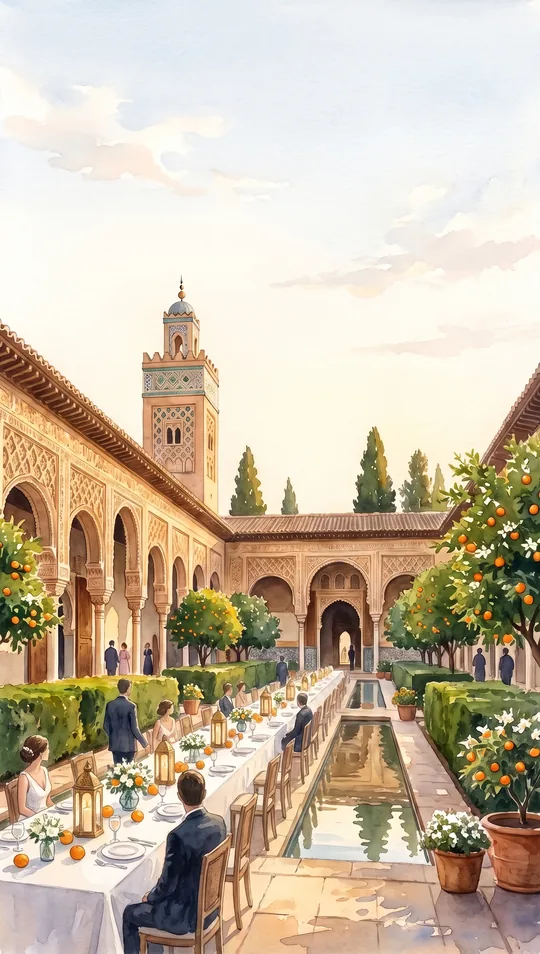
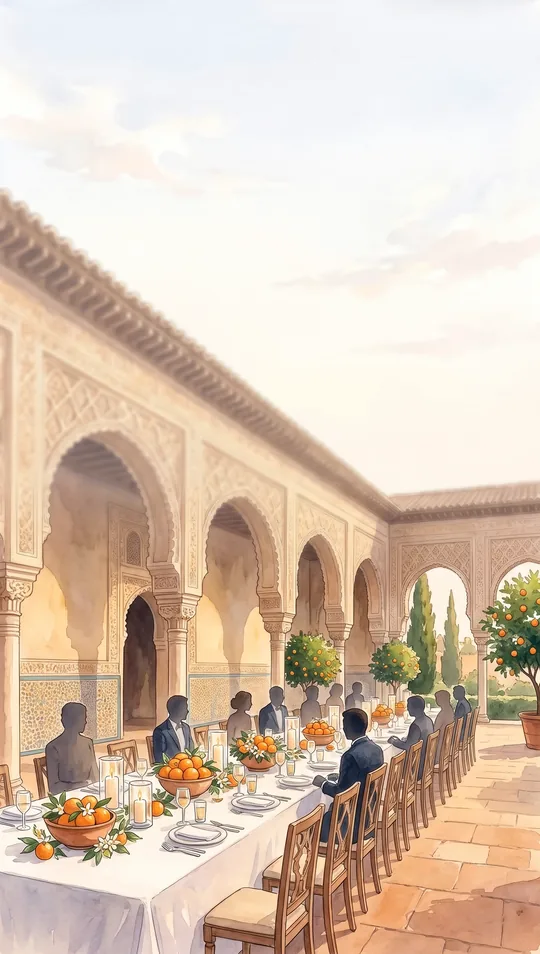
Andalou : salle, dîner et fête repeints en illustrations simples (plus de tables sur l'eau) ; lieu « Henné à la maison » pour les deux thèmes
Claude-Session: https://claude.ai/code/session_01R5nF4Xbit5ZovA9fQpJaCu

diff --git a/business/site/api/_meta.js b/business/site/api/_meta.js
@@ -1,2 +1,2 @@
 // Généré par business/build-site.py : ce que les faire-part commandés en ligne reprennent de chaque thème. Ne pas modifier à la main.
-export default {"site": "https://savetheoui.fr", "themes": {"conte": {"compose": false, "light": false, "keys": ["1", "2", "3", "4", "eglise", "fond", "jardin", "mairie", "plage", "salle"], "calques": [], "anim": [1, 3, 4], "trans": []}, "artdeco": {"compose": false, "light": false, "keys": ["1", "2", "3", "4", "eglise", "fond", "jardin", "mairie", "plage", "salle"], "calques": [], "anim": [3, 4], "trans": []}, "aquarelle": {"compose": false, "light": true, "keys": ["1", "2", "3", "4", "eglise", "fond", "jardin", "mairie", "plage", "salle"], "calques": [], "anim": [2, 3, 4], "trans": []}, "bollywood": {"compose": false, "light": false, "keys": ["1", "2", "3", "4", "ciel", "eglise", "fond", "jardin", "mairie", "plage", "salle"], "calques": ["1", "2", "4", "eglise", "jardin", "mairie", "plage", "salle"], "anim": [1, 2], "trans": []}, "minimal": {"compose": false, "light": true, "keys": ["1", "2", "3", "4", "eglise", "fond", "jardin", "mairie", "plage", "salle"], "calques": [], "anim": [], "trans": []}, "boheme": {"compose": false, "light": true, "keys": ["1", "2", "3", "4", "eglise", "fond", "jardin", "mairie", "plage", "salle"], "calques": [], "anim": [4], "trans": []}, "americaine": {"compose": false, "light": false, "keys": ["1", "2", "3", "4", "eglise", "fond", "jardin", "mairie", "plage", "salle"], "calques": [], "anim": [1, 3, 4], "trans": []}, "pop": {"compose": false, "light": true, "keys": ["1", "2", "3", "4", "eglise", "fond", "jardin", "mairie", "plage", "salle"], "calques": [], "anim": [1, 4], "trans": []}, "ceramique": {"compose": false, "light": true, "keys": ["1", "2", "3", "4", "eglise", "fond", "jardin", "mairie", "plage", "salle"], "calques": [], "anim": [3], "trans": []}, "nuits": {"compose": true, "light": false, "keys": ["1", "2", "3", "4", "ciel", "cocktail", "dress", "eglise", "fete", "fond", "info", "jardin", "mains", "mairie", "mosquee", "plage", "prog", "salle", "sortie", "verres"], "calques": [], "anim": [4], "trans": []}, "gravure": {"compose": false, "light": true, "keys": ["1", "2", "3", "4", "eglise", "fond", "jardin", "mairie", "plage", "salle"], "calques": [], "anim": [], "trans": []}, "dolcevita": {"compose": true, "light": false, "keys": ["1", "2", "3", "4", "ciel", "cocktail", "dress", "eglise", "fete", "fond", "info", "jardin", "mains", "mairie", "plage", "prog", "salle", "sortie", "verres"], "calques": [], "anim": [2], "trans": []}, "chinois": {"compose": false, "light": false, "keys": ["1", "2", "3", "4", "eglise", "fond", "jardin", "mairie", "plage", "salle"], "calques": [], "anim": [], "trans": []}, "japonais": {"compose": false, "light": true, "keys": ["1", "2", "3", "4", "ciel", "eglise", "fond", "jardin", "mairie", "plage", "salle"], "calques": ["1", "3", "4", "eglise", "jardin", "mairie", "plage", "salle"], "anim": [], "trans": []}, "gzhel": {"compose": false, "light": true, "keys": ["1", "2", "3", "4", "eglise", "fond", "jardin", "mairie", "plage", "salle"], "calques": [], "anim": [], "trans": []}, "asianchic": {"compose": false, "light": false, "keys": ["1", "2", "3", "4", "eglise", "fond", "jardin", "mairie", "plage", "salle"], "calques": [], "anim": [], "trans": []}, "y2k": {"compose": false, "light": true, "keys": ["1", "2", "3", "4", "eglise", "fond", "jardin", "mairie", "plage", "salle"], "calques": [], "anim": [], "trans": []}, "oldmoney": {"compose": true, "light": true, "keys": ["1", "2", "3", "4", "ciel", "cocktail", "eglise", "fete", "fond", "info", "jardin", "liste", "mains", "mairie", "plage", "salle", "sortie", "verres"], "calques": [], "anim": [], "trans": []}, "afro": {"compose": false, "light": false, "keys": ["1", "2", "3", "4", "eglise", "fond", "jardin", "mairie", "plage", "salle"], "calques": [], "anim": [], "trans": []}, "alhambra": {"compose": true, "light": true, "keys": ["1", "2", "3", "4", "cocktail", "dress", "eglise", "fete", "fond", "info", "jardin", "mains", "mairie", "mosquee", "plage", "prog", "salle", "sortie", "verres"], "calques": [], "anim": [], "trans": []}, "desert": {"compose": false, "light": false, "keys": ["1", "2", "3", "4", "fond", "jardin", "mairie", "mosquee", "plage", "salle"], "calques": [], "anim": [], "trans": []}, "emeraude": {"compose": false, "light": false, "keys": ["1", "2", "3", "4", "fond", "jardin", "mairie", "mosquee", "plage", "salle"], "calques": [], "anim": [], "trans": []}, "doucefrance": {"compose": true, "light": true, "keys": ["1", "2", "3", "4", "cocktail", "dress", "eglise", "fete", "fond", "info", "jardin", "liste", "mains", "mairie", "plage", "prog", "salle", "sortie", "verres"], "calques": [], "anim": [], "trans": []}, "dolcevitajour": {"compose": false, "light": true, "keys": ["1", "2", "3", "4", "dress", "eglise", "fond", "info", "jardin", "mains", "prog", "salle"], "calques": [], "anim": [], "trans": []}}};
+export default {"site": "https://savetheoui.fr", "themes": {"conte": {"compose": false, "light": false, "keys": ["1", "2", "3", "4", "eglise", "fond", "jardin", "mairie", "plage", "salle"], "calques": [], "anim": [1, 3, 4], "trans": []}, "artdeco": {"compose": false, "light": false, "keys": ["1", "2", "3", "4", "eglise", "fond", "jardin", "mairie", "plage", "salle"], "calques": [], "anim": [3, 4], "trans": []}, "aquarelle": {"compose": false, "light": true, "keys": ["1", "2", "3", "4", "eglise", "fond", "jardin", "mairie", "plage", "salle"], "calques": [], "anim": [2, 3, 4], "trans": []}, "bollywood": {"compose": false, "light": false, "keys": ["1", "2", "3", "4", "ciel", "eglise", "fond", "jardin", "mairie", "plage", "salle"], "calques": ["1", "2", "4", "eglise", "jardin", "mairie", "plage", "salle"], "anim": [1, 2], "trans": []}, "minimal": {"compose": false, "light": true, "keys": ["1", "2", "3", "4", "eglise", "fond", "jardin", "mairie", "plage", "salle"], "calques": [], "anim": [], "trans": []}, "boheme": {"compose": false, "light": true, "keys": ["1", "2", "3", "4", "eglise", "fond", "jardin", "mairie", "plage", "salle"], "calques": [], "anim": [4], "trans": []}, "americaine": {"compose": false, "light": false, "keys": ["1", "2", "3", "4", "eglise", "fond", "jardin", "mairie", "plage", "salle"], "calques": [], "anim": [1, 3, 4], "trans": []}, "pop": {"compose": false, "light": true, "keys": ["1", "2", "3", "4", "eglise", "fond", "jardin", "mairie", "plage", "salle"], "calques": [], "anim": [1, 4], "trans": []}, "ceramique": {"compose": false, "light": true, "keys": ["1", "2", "3", "4", "eglise", "fond", "jardin", "mairie", "plage", "salle"], "calques": [], "anim": [3], "trans": []}, "nuits": {"compose": true, "light": false, "keys": ["1", "2", "3", "4", "ciel", "cocktail", "dress", "eglise", "fete", "fond", "info", "jardin", "mains", "mairie", "maison", "mosquee", "plage", "prog", "salle", "sortie", "verres"], "calques": [], "anim": [4], "trans": []}, "gravure": {"compose": false, "light": true, "keys": ["1", "2", "3", "4", "eglise", "fond", "jardin", "mairie", "plage", "salle"], "calques": [], "anim": [], "trans": []}, "dolcevita": {"compose": true, "light": false, "keys": ["1", "2", "3", "4", "ciel", "cocktail", "dress", "eglise", "fete", "fond", "info", "jardin", "mains", "mairie", "plage", "prog", "salle", "sortie", "verres"], "calques": [], "anim": [2], "trans": []}, "chinois": {"compose": false, "light": false, "keys": ["1", "2", "3", "4", "eglise", "fond", "jardin", "mairie", "plage", "salle"], "calques": [], "anim": [], "trans": []}, "japonais": {"compose": false, "light": true, "keys": ["1", "2", "3", "4", "ciel", "eglise", "fond", "jardin", "mairie", "plage", "salle"], "calques": ["1", "3", "4", "eglise", "jardin", "mairie", "plage", "salle"], "anim": [], "trans": []}, "gzhel": {"compose": false, "light": true, "keys": ["1", "2", "3", "4", "eglise", "fond", "jardin", "mairie", "plage", "salle"], "calques": [], "anim": [], "trans": []}, "asianchic": {"compose": false, "light": false, "keys": ["1", "2", "3", "4", "eglise", "fond", "jardin", "mairie", "plage", "salle"], "calques": [], "anim": [], "trans": []}, "y2k": {"compose": false, "light": true, "keys": ["1", "2", "3", "4", "eglise", "fond", "jardin", "mairie", "plage", "salle"], "calques": [], "anim": [], "trans": []}, "oldmoney": {"compose": true, "light": true, "keys": ["1", "2", "3", "4", "ciel", "cocktail", "eglise", "fete", "fond", "info", "jardin", "liste", "mains", "mairie", "plage", "salle", "sortie", "verres"], "calques": [], "anim": [], "trans": []}, "afro": {"compose": false, "light": false, "keys": ["1", "2", "3", "4", "eglise", "fond", "jardin", "mairie", "plage", "salle"], "calques": [], "anim": [], "trans": []}, "alhambra": {"compose": true, "light": true, "keys": ["1", "2", "3", "4", "cocktail", "dress", "eglise", "fete", "fond", "info", "jardin", "mains", "mairie", "maison", "mosquee", "plage", "prog", "salle", "sortie", "verres"], "calques": [], "anim": [], "trans": []}, "desert": {"compose": false, "light": false, "keys": ["1", "2", "3", "4", "fond", "jardin", "mairie", "mosquee", "plage", "salle"], "calques": [], "anim": [], "trans": []}, "emeraude": {"compose": false, "light": false, "keys": ["1", "2", "3", "4", "fond", "jardin", "mairie", "mosquee", "plage", "salle"], "calques": [], "anim": [], "trans": []}, "doucefrance": {"compose": true, "light": true, "keys": ["1", "2", "3", "4", "cocktail", "dress", "eglise", "fete", "fond", "info", "jardin", "liste", "mains", "mairie", "plage", "prog", "salle", "sortie", "verres"], "calques": [], "anim": [], "trans": []}, "dolcevitajour": {"compose": false, "light": true, "keys": ["1", "2", "3", "4", "dress", "eglise", "fond", "info", "jardin", "mains", "prog", "salle"], "calques": [], "anim": [], "trans": []}}};

diff --git a/business/landing/themes.js b/business/landing/themes.js
@@ -177,14 +177,15 @@ window.sceauDoorFit=function(root,box,wall,l,r){
 window.SCEAU_THEMES.nuits.compose=true; window.SCEAU_THEMES.alhambra.compose=true;
 // leurs lieux peints (img/lieux) : tous proposés, le thème n'impose pas la mosquée ; l'Andalou n'a pas d'église (-> mairie)
 /* pas d'église dans ces deux thèmes (« y'a pas d'église, y'a mairie et salle, ou henné à la maison », 10 octobre 2026) :
-   un moment prévu à l'église passe à la mairie ; les images d'église peintes ce jour-là restent dans img/ sans être proposées */
-['nuits','alhambra'].forEach(k=>{ const t=window.SCEAU_THEMES[k]; t.lieux=['mairie','salle','mosquee','jardin','plage']; t.lieuAlt={eglise:'mairie'}; });
+   un moment prévu à l'église passe à la mairie ; les images d'église peintes ce jour-là restent dans img/ sans être proposées.
+   « Henné à la maison » (maison) : un gros plan symbolique, le plateau de henné sur la table basse du salon */
+['nuits','alhambra'].forEach(k=>{ const t=window.SCEAU_THEMES[k]; t.lieux=['mairie','salle','maison','mosquee','jardin','plage']; t.lieuAlt={eglise:'mairie'}; });
 /* repeints le 10 octobre 2026 selon les règles de Dolce Vita (tools/nuits-andalou.py, 38 images accordées) : des peintures
    entières composées pour le plein écran (cover), sans calques ; l'accueil s'ouvre sur les mains, la réponse sur les verres
    (thé à la menthe, citronnade à la fleur d'oranger), chaque écran d'infos a sa scène, et la fête, le cocktail, la sortie
    sont des décors de plus. L'Andalou est de jour (texte foncé), sauf sa fête du soir. */
 ['nuits','alhambra'].forEach(k=>{ const t=window.SCEAU_THEMES[k]; t.nocal=true; t.home='mains'; t.extra=['fete','cocktail','sortie'];
-  t.cover=['1','2','3','4','mains','verres','fond','mairie','eglise','mosquee','salle','jardin','plage','fete','cocktail','sortie','prog','dress','info'];
+  t.cover=['1','2','3','4','mains','verres','fond','mairie','eglise','mosquee','maison','salle','jardin','plage','fete','cocktail','sortie','prog','dress','info'];
   t.pageImg={program:'prog',dress:'dress',stay:'info',infos:'info',rsvp:'verres'}; });
 window.SCEAU_THEMES.alhambra.darkLieux=['fete'];
 window.SCEAU_BASMALA='﷽';

diff --git a/business/site/themes.js b/business/site/themes.js
@@ -177,14 +177,15 @@ window.sceauDoorFit=function(root,box,wall,l,r){
 window.SCEAU_THEMES.nuits.compose=true; window.SCEAU_THEMES.alhambra.compose=true;
 // leurs lieux peints (img/lieux) : tous proposés, le thème n'impose pas la mosquée ; l'Andalou n'a pas d'église (-> mairie)
 /* pas d'église dans ces deux thèmes (« y'a pas d'église, y'a mairie et salle, ou henné à la maison », 10 octobre 2026) :
-   un moment prévu à l'église passe à la mairie ; les images d'église peintes ce jour-là restent dans img/ sans être proposées */
-['nuits','alhambra'].forEach(k=>{ const t=window.SCEAU_THEMES[k]; t.lieux=['mairie','salle','mosquee','jardin','plage']; t.lieuAlt={eglise:'mairie'}; });
+   un moment prévu à l'église passe à la mairie ; les images d'église peintes ce jour-là restent dans img/ sans être proposées.
+   « Henné à la maison » (maison) : un gros plan symbolique, le plateau de henné sur la table basse du salon */
+['nuits','alhambra'].forEach(k=>{ const t=window.SCEAU_THEMES[k]; t.lieux=['mairie','salle','maison','mosquee','jardin','plage']; t.lieuAlt={eglise:'mairie'}; });
 /* repeints le 10 octobre 2026 selon les règles de Dolce Vita (tools/nuits-andalou.py, 38 images accordées) : des peintures
    entières composées pour le plein écran (cover), sans calques ; l'accueil s'ouvre sur les mains, la réponse sur les verres
    (thé à la menthe, citronnade à la fleur d'oranger), chaque écran d'infos a sa scène, et la fête, le cocktail, la sortie
    sont des décors de plus. L'Andalou est de jour (texte foncé), sauf sa fête du soir. */
 ['nuits','alhambra'].forEach(k=>{ const t=window.SCEAU_THEMES[k]; t.nocal=true; t.home='mains'; t.extra=['fete','cocktail','sortie'];
-  t.cover=['1','2','3','4','mains','verres','fond','mairie','eglise','mosquee','salle','jardin','plage','fete','cocktail','sortie','prog','dress','info'];
+  t.cover=['1','2','3','4','mains','verres','fond','mairie','eglise','mosquee','maison','salle','jardin','plage','fete','cocktail','sortie','prog','dress','info'];
   t.pageImg={program:'prog',dress:'dress',stay:'info',infos:'info',rsvp:'verres'}; });
 window.SCEAU_THEMES.alhambra.darkLieux=['fete'];
 window.SCEAU_BASMALA='﷽';

diff --git a/business/landing/vitrine.js b/business/landing/vitrine.js
@@ -236,7 +236,7 @@
   // prix de la page unique : 59 €, + 10 € avec l'ouverture, + 20 € avec le bouton Répondre et le tableau de bord
   const pagePrice=()=>59+(C.op!=='none'?10:0)+(C.reply?20:0);
   // les lieux déjà dessinés dans chaque thème (/img/lieux/<thème>-<lieu>.webp) ; « fond » = le décor des écrans simples
-  const LIEUX=[{id:'s2',name:'Le henné',occ:'henne'},{id:'mairie',name:'Mairie'},{id:'eglise',name:'Église'},{id:'mosquee',name:'Mosquée',fam:'nuits'},{id:'salle',name:'Salle'},{id:'jardin',name:'Jardin'},{id:'plage',name:'Plage'},{id:'fete',name:'Soirée',x:1},{id:'cocktail',name:'Cocktail',x:1},{id:'sortie',name:'Sortie de cérémonie',x:1},{id:'photo',name:'Votre lieu',sig:true}];
+  const LIEUX=[{id:'s2',name:'Le henné',occ:'henne'},{id:'mairie',name:'Mairie'},{id:'eglise',name:'Église'},{id:'mosquee',name:'Mosquée',fam:'nuits'},{id:'maison',name:'Henné à la maison',fam:'nuits'},{id:'salle',name:'Salle'},{id:'jardin',name:'Jardin'},{id:'plage',name:'Plage'},{id:'fete',name:'Soirée',x:1},{id:'cocktail',name:'Cocktail',x:1},{id:'sortie',name:'Sortie de cérémonie',x:1},{id:'photo',name:'Votre lieu',sig:true}];
   /* upsell sans frustration : les options de Signature (lieu peint d'après photo, 3e événement et plus, lien par famille,
      anglais) sont proposées au même endroit que les autres, avec l'étiquette « Signature ». On peut les choisir en Essentiel :
      la formule se met d'elle-même sur Signature et le récapitulatif explique pourquoi ; si l'on revient à Essentiel, il dit

diff --git a/business/site/vitrine.js b/business/site/vitrine.js
@@ -236,7 +236,7 @@
   // prix de la page unique : 59 €, + 10 € avec l'ouverture, + 20 € avec le bouton Répondre et le tableau de bord
   const pagePrice=()=>59+(C.op!=='none'?10:0)+(C.reply?20:0);
   // les lieux déjà dessinés dans chaque thème (/img/lieux/<thème>-<lieu>.webp) ; « fond » = le décor des écrans simples
-  const LIEUX=[{id:'s2',name:'Le henné',occ:'henne'},{id:'mairie',name:'Mairie'},{id:'eglise',name:'Église'},{id:'mosquee',name:'Mosquée',fam:'nuits'},{id:'salle',name:'Salle'},{id:'jardin',name:'Jardin'},{id:'plage',name:'Plage'},{id:'fete',name:'Soirée',x:1},{id:'cocktail',name:'Cocktail',x:1},{id:'sortie',name:'Sortie de cérémonie',x:1},{id:'photo',name:'Votre lieu',sig:true}];
+  const LIEUX=[{id:'s2',name:'Le henné',occ:'henne'},{id:'mairie',name:'Mairie'},{id:'eglise',name:'Église'},{id:'mosquee',name:'Mosquée',fam:'nuits'},{id:'maison',name:'Henné à la maison',fam:'nuits'},{id:'salle',name:'Salle'},{id:'jardin',name:'Jardin'},{id:'plage',name:'Plage'},{id:'fete',name:'Soirée',x:1},{id:'cocktail',name:'Cocktail',x:1},{id:'sortie',name:'Sortie de cérémonie',x:1},{id:'photo',name:'Votre lieu',sig:true}];
   /* upsell sans frustration : les options de Signature (lieu peint d'après photo, 3e événement et plus, lien par famille,
      anglais) sont proposées au même endroit que les autres, avec l'étiquette « Signature ». On peut les choisir en Essentiel :
      la formule se met d'elle-même sur Signature et le récapitulatif explique pourquoi ; si l'on revient à Essentiel, il dit

diff --git a/business/tools/nuits-andalou.py b/business/tools/nuits-andalou.py
@@ -131,6 +131,31 @@ J = {
     'alhambra-info': (A1, DAY, VIGNETTE + " The way to the wedding: a cypress-lined path climbing to the palace gate, a vintage "
         "car waiting at the foot of the hill. No people"),
 }
+# 10 octobre 2026, 5 images de plus accordées (~0,75 €) : « où tu vois un domaine qui ressemble à ça, les tables sont sur
+# l'eau » ; « les images ne doivent pas forcément représenter les lieux en vrai, ça peut être symbolique, illustratif, simple ».
+# Les anciennes salle, dîner et fête de l'Andalou sont remplacées, et un lieu « Henné à la maison » s'ajoute aux deux thèmes.
+SYMBOL = ("It is an illustration for a wedding invitation: SYMBOLIC, simple and elegant, not a literal venue. Everything is "
+          "physically plausible: tables and chairs stand on a solid floor, never next to or over water.")
+N2 = ('nuits', 'nuits-1@new', 'nuits-2@new', 'nuits-mains@new')
+A2 = ('alhambra', 'alhambra-1@new', 'alhambra-cocktail@new', 'alhambra-mains@new')
+J.update({
+    'alhambra-salle': (A2, DAY, SYMBOL + " The wedding reception: one round table beautifully set with white linen, gold-rimmed "
+        "plates, crystal glasses, small lanterns with candles and sprigs of orange blossom, on terracotta tiles under a carved "
+        "Andalusian arch, orange trees in pots on each side, the arcades softly behind. No people. No pool, no water"),
+    'alhambra-3': (A2, DAY, SYMBOL + " " + PEOPLE + " The wedding dinner in the golden afternoon light: a long table on a "
+        "terracotta terrace, set with white linen, candles and bowls of oranges, under carved arches, guests seen from behind "
+        "taking their seats. No pool, no water anywhere near the table"),
+    'alhambra-fete': (A2, NIGHT, SYMBOL + " " + PEOPLE + " The evening party: strings of warm lanterns across a palace "
+        "courtyard at night, a few couples dancing seen from behind as warm silhouettes on the tiled floor, orange trees in "
+        "pots. No tables, no pool, no water"),
+    'nuits-maison': (N2, FOCUS_N, SYMBOL + " The henna night at home, a close-up still life: a low carved wooden table on a "
+        "rug with a brass tray of henna cones, a small bowl of henna paste, rose petals and candles, embroidered cushions "
+        "around, in the warm lantern light of a family living room at night, in the lower part of the image. No people"),
+    'alhambra-maison': (A2, FOCUS_D, SYMBOL + " The henna night at home, a close-up still life: a low carved wooden table on "
+        "a rug with a brass tray of henna cones, a small bowl of henna paste, rose petals and orange blossoms, embroidered "
+        "cushions around, in the soft daylight of a family living room with a carved window, in the lower part of the image. "
+        "No people"),
+})
 ANCHORS = ['nuits-1', 'alhambra-1']
 NIGHTZ = (NIGHT, FOCUS_N)
 SRC = '/tmp/claude-0/nuits-andalou'

diff --git a/business/tools/retouche-nuits-andalou.py b/business/tools/retouche-nuits-andalou.py
@@ -57,7 +57,8 @@ def erase_text(im, bx):
 JOBS = {  # clé : (opérations, texte blanc ?)
     'alhambra-mairie': ([('erase', (355, 285, 725, 365)), ('soften', 2, .2)], False),
     'alhambra-mains': ([('soften', 14, .42)], False),
-    'alhambra-fete': ([('darken', .62)], True),
+    'alhambra-fete': ([('darken', .55)], True),
+    'alhambra-3': ([('soften', 3, .3)], False),
     'nuits-eglise': ([('darken', .82)], True),
     'nuits-2': ([('darken', .82)], True),
 }

diff --git a/CLAUDE.md b/CLAUDE.md
@@ -678,7 +678,9 @@ faire-part, vitrine, aperçus, images d'aperçu WhatsApp (og.jpg), images géné
     `eglise`, `lieuAlt {eglise:'mairie'}` ; les images d'église restent dans img/ sans être proposées. **Une image de faire-part
     n'a pas à représenter un vrai lieu** (« ça peut être symbolique, illustratif, simple ») : jamais d'invraisemblance (des
     tables posées au bord d'un bassin, « où tu vois un domaine qui ressemble à ça ») ; dans le doute, un gros plan symbolique
-    (une table dressée, des lanternes, un plateau de henné) plutôt qu'un lieu inventé.
+    (une table dressée, des lanternes, un plateau de henné) plutôt qu'un lieu inventé. Repeints ainsi (5 images accordées, ~0,75 €, `SYMBOL` dans
+    `nuits-andalou.py`) : la salle, le dîner et la fête de l'Andalou (tables sur un vrai sol, plus d'eau), et un nouveau lieu
+    **« Henné à la maison »** (`maison`, les deux thèmes : le plateau de henné sur la table basse du salon, en gros plan).
 49. **Le compte à rebours se règle dans la liste des écrans** (« si je mets page dédiée elle se met au milieu, ça doit être
     paramétrable au moment des écrans ») : une ligne « Le compte à rebours » dans « Vos écrans, dans l'ordre », qui se range à
     l'endroit choisi : sous la date (accueil), **avant vos moments** (`page`), **après vos moments** (`apres`, nouveau), avec la
